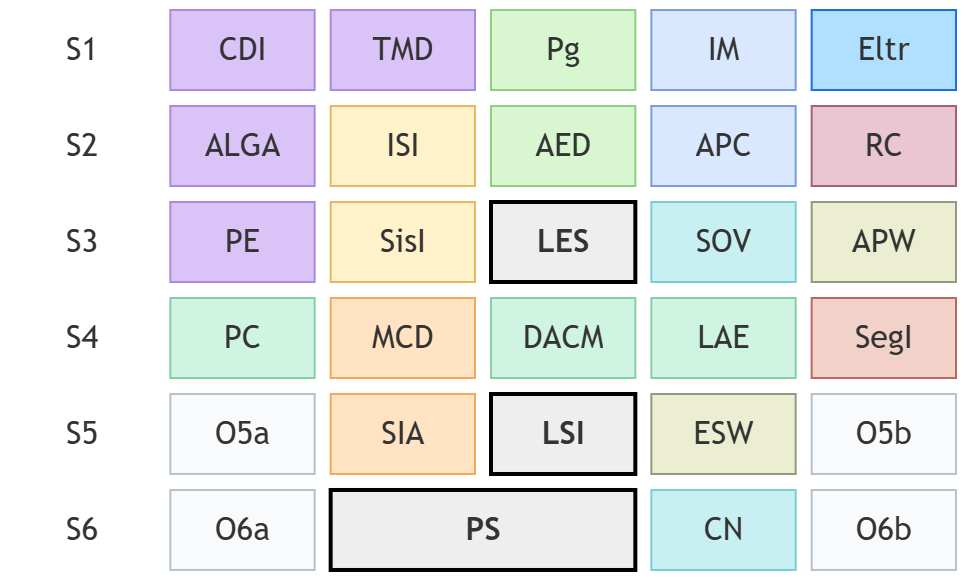
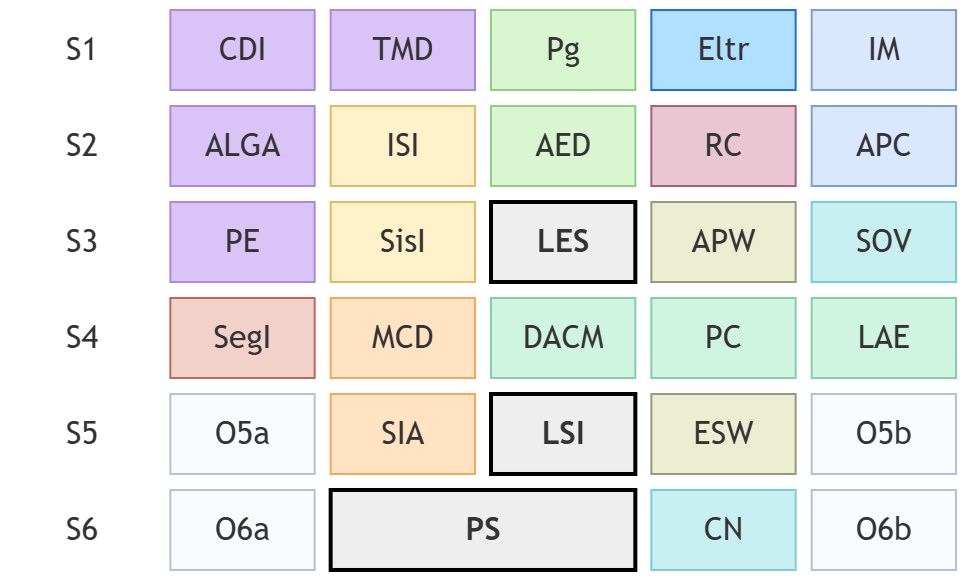
LEIC-2028+ - Ajustes

Changed region(s): [[0.6522, 0.0, 0.9938, 0.6517], [0.1553, 0.4966, 0.3416, 0.6517], [0.7143, 0.5586, 0.7764, 0.6207]]

diff --git a/LEIC-2028b.md b/LEIC-2028b.md
@@ -1,6 +1,6 @@
 ## ISEL - Licenciatura em Engenharia Informática e de Computadores
 
-**NOTA:** Este é um exercício pessoal sobre o plano de estudos da LEIC. **Não** se trata de informação oficial *nem* é sequer um documento de trabalho institucional.
+**NOTA:** Este é um exercício pessoal sobre o plano de estudos da LEIC. **Não** constitui informação oficial nem documento de trabalho institucional.
 <br>
 
 ![Plano de Estudos da LEIC 2028+](LEIC-2028b.png)
@@ -9,13 +9,13 @@
 
 ### Distribuição de Créditos por Áreas Científicas
 
-| Área Científica                          | Sigla | ECTS Obrigatórios | ECTS Optativos |
-| ---------------------------------------- | :---: | :---------------: | :------------: |
-| Matemática                               |  MAT  |         24        |      0–12      |
-| Engenharia Informática e de Computadores |   IC  |        123        |      6–18      |
-| Engenharia Eletrónica e Telecomunicações |   ET  |         6         |      0–12      |
-| Competências Transversais                |   CT  |         3         |      6–12      |
-| **Total**                                |   —   |      **156**      |     **24**     |
+| Área Científica | Sigla | ECTS Obrigatórios | ECTS Optativos |
+| --------------- | :---: | :---------------: | :------------: |
+| Matemática      |  MAT  |         24        |      0–12      |
+| Engenharia Informática e de Computadores | IC | 123 |  6–18  |
+| Engenharia Eletrónica e Telecomunicações | ET |  6  |  0–12  |
+| Competências Transversais | CT |   3        |      6–12      |
+| **Total**       |   —   |      **156**      |     **24**     |
 
 *As quatro opções têm 6 ECTS cada. O percurso inclui pelo menos uma opção em IC e uma em CT. Os intervalos das áreas científicas não são independentes. Em Projeto e Seminário, 9 ECTS pertencem a IC e 3 ECTS a CT.*
 
@@ -87,8 +87,8 @@
 
 | Unidade Curricular | Área | Horas Totais | ECTS |
 | ------------------ | :--: | :----------: | :--: |
-| Computação na Nuvem | IC | 162 | 6 |
 | Projeto e Seminário | IC+CT | 324 | 12 |
+| Computação na Nuvem | IC | 162 | 6 |
 | Opção 6A | MAT/IC/ET/CT | 162 | 6 |
 | Opção 6B | MAT/IC/ET/CT | 162 | 6 |
 

diff --git a/LEIC-2028a.md b/LEIC-2028a.md
@@ -1,6 +1,6 @@
 ## ISEL - Licenciatura em Engenharia Informática e de Computadores
 
-**NOTA:** Este é um exercício pessoal sobre o plano de estudos da LEIC. **Não** se trata de informação oficial *nem* é sequer um documento de trabalho institucional.
+**NOTA:** Este é um exercício pessoal sobre o plano de estudos da LEIC. **Não** constitui informação oficial nem documento de trabalho institucional.
 <br>
 
 ![Plano de Estudos da LEIC 2028+](LEIC-2028a.png)
@@ -10,7 +10,7 @@
 ### Distribuição de Créditos por Áreas Científicas
 
 | Área Científica                          | Sigla | ECTS Obrigatórios | ECTS Optativos |
-| ---------------------------------------- | :---: | :---------------: | :------------: |
+| --------------- | :---: | :---------------: | :------------: |
 | Matemática                               |  MAT  |         24        |      0–12      |
 | Engenharia Informática e de Computadores |   IC  |        123        |      6–18      |
 | Engenharia Eletrónica e Telecomunicações |   ET  |         6         |      0–12      |
@@ -87,8 +87,8 @@
 
 | Unidade Curricular | Área | Horas Totais | ECTS |
 | ------------------ | :--: | :----------: | :--: |
-| Computação na Nuvem | IC | 162 | 6 |
 | Projeto e Seminário | IC+CT | 324 | 12 |
+| Computação na Nuvem | IC | 162 | 6 |
 | Opção 6A | MAT/IC/ET/CT | 162 | 6 |
 | Opção 6B | MAT/IC/ET/CT | 162 | 6 |
 
